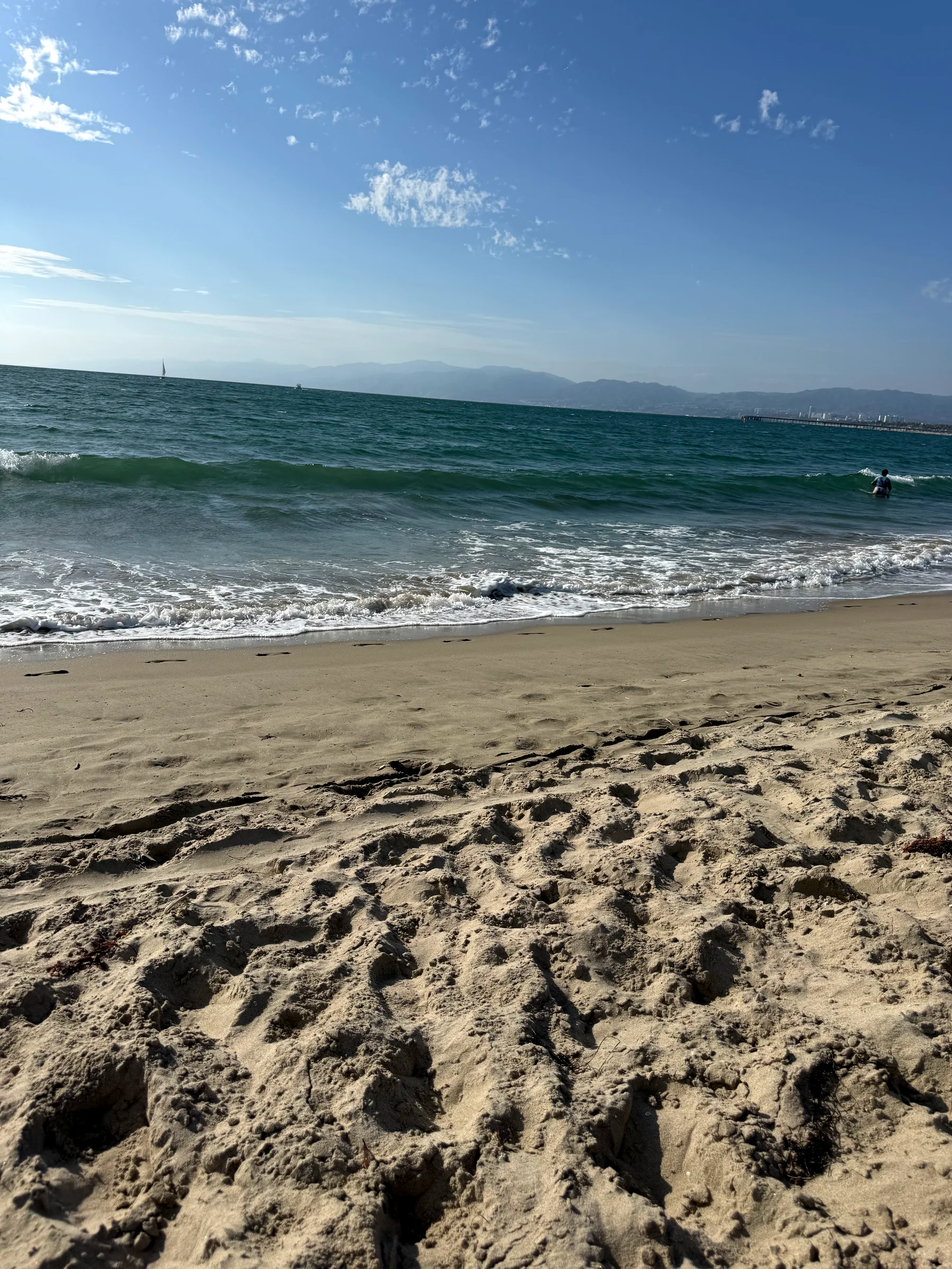
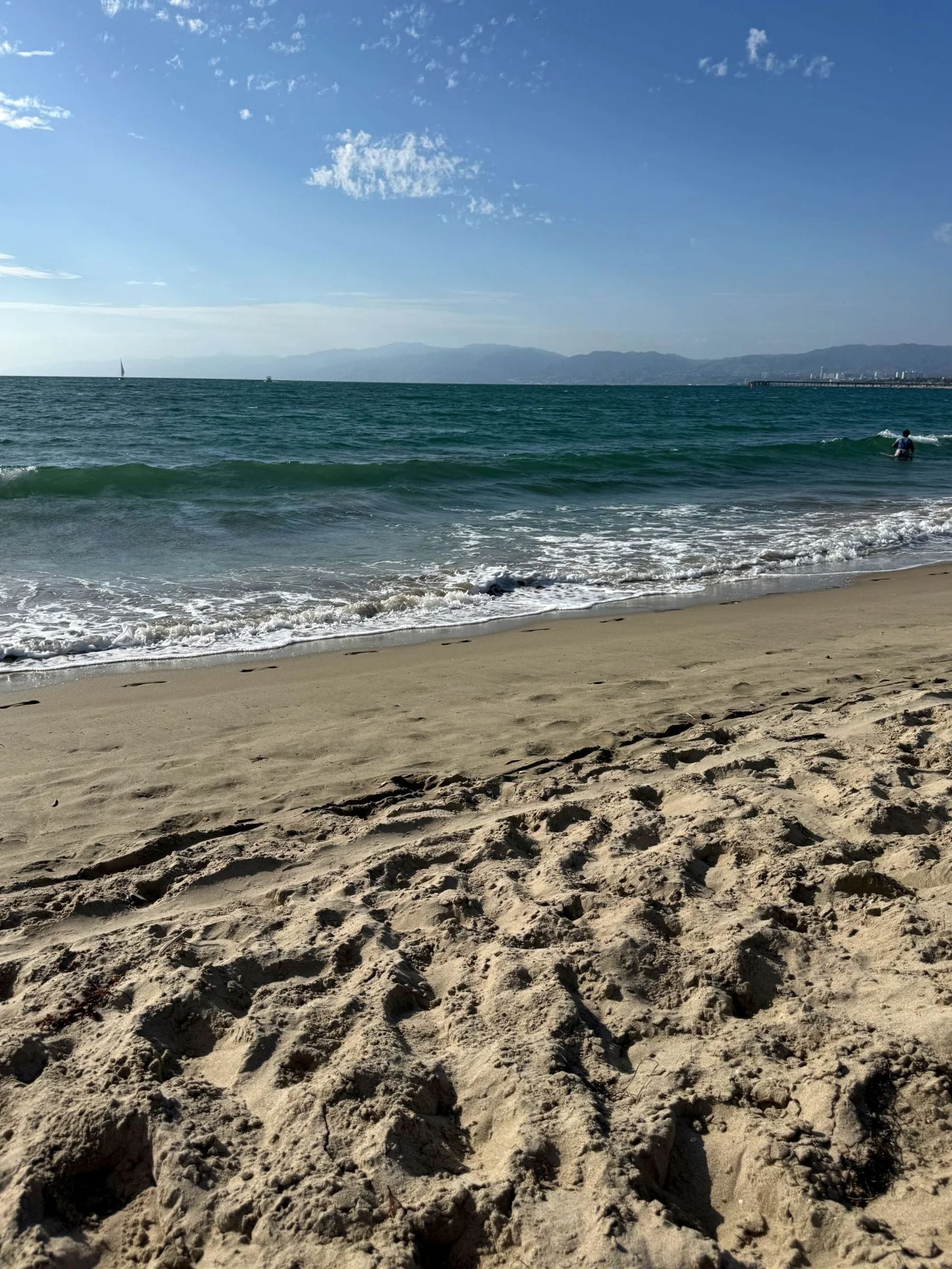
Homepage: graphics over project photos, pink title band

diff --git a/src/lib/overlays.ts b/src/lib/overlays.ts
@@ -1,0 +1,99 @@
+// Homepage featured projects: a photo with graphics drawn over it ("half photo, half drawing").
+// Each overlay is drawn in its photo's own pixels, so it stays lined up with the horizon, the water
+// and so on at any screen size. If a project's photo changes in the editor, its overlay switches off
+// (it would no longer line up) and the plain photo shows instead.
+// Colours come from the built-in drawings (src/lib/scene.ts).
+import { url } from './url';
+
+type Art = {
+  photo: string; // the photo it was drawn for
+  w: number; // photo size in pixels
+  h: number;
+  view: [number, number]; // the band of the photo to centre on (top, height)
+  band?: string; // a colour band across the top, as tall as the title, so the title sits on it
+  defs: string;
+  art: string;
+};
+
+/** Repeats a template n times. */
+const times = (n: number, f: (i: number) => string) => Array.from({ length: n }, (_, i) => f(i)).join('');
+
+const ART: Record<string, Art> = {
+  // Solstice: a sunset drawn onto the real horizon (y 708; the photo was levelled by 3.5° to make it flat).
+  solstice: {
+    photo: '/images/gallery/2026-11-shoreline.webp',
+    w: 1800,
+    h: 2400,
+    view: [120, 1360],
+    defs: `<radialGradient id="ov-glow"><stop offset="0" stop-color="#fff6ee" stop-opacity=".95"/><stop offset=".3" stop-color="#f6c9cf" stop-opacity=".6"/><stop offset="1" stop-color="#f2b8c2" stop-opacity="0"/></radialGradient>
+      <linearGradient id="ov-sky" x1="0" y1="0" x2="0" y2="1"><stop offset="0" stop-color="#8db6d6" stop-opacity=".15"/><stop offset=".55" stop-color="#cdbfd6" stop-opacity=".45"/><stop offset="1" stop-color="#f4d8d6" stop-opacity=".8"/></linearGradient>
+      <clipPath id="ov-above"><rect width="1800" height="708"/></clipPath>`,
+    art: `<g clip-path="url(#ov-above)"><rect width="1800" height="708" fill="url(#ov-sky)"/>
+      <circle cx="900" cy="708" r="560" fill="url(#ov-glow)"/>
+      <circle cx="900" cy="708" r="250" fill="none" stroke="#fff" stroke-opacity=".55" stroke-width="3"/>
+      <circle cx="900" cy="708" r="340" fill="none" stroke="#fff" stroke-opacity=".35" stroke-width="2"/>
+      <circle cx="900" cy="708" r="165" fill="#fff6ee"/></g>
+      <path d="M0 708H1800" stroke="#fff" stroke-opacity=".7" stroke-width="3"/>
+      <g>
+        <ellipse cx="900" cy="763" rx="520" ry="110" fill="url(#ov-glow)" opacity=".55"/>
+        ${times(16, (i) => {
+          const w = 280 - i * 15;
+          return `<rect x="${900 - w / 2}" y="${727 + i * 26}" width="${w}" height="${6 + i * 0.5}" rx="3" fill="#fde9e2" opacity="${(0.9 - i * 0.045).toFixed(2)}"/>`;
+        })}
+        ${times(34, (i) => `<rect x="${(i * 211) % 1800}" y="${738 + ((i * 83) % 330)}" width="${50 + ((i * 37) % 90)}" height="3" fill="#eef5fa" opacity=".5"/>`)}
+      </g>`,
+  },
+
+  // Pool Tile: a tile grid, wave lines, a lane rope and a pool ring; the pink coping from the drawing is
+  // the title band (drawn by the page, so it always matches the title's height).
+  'pool-tile': {
+    photo: '/images/gallery/2026-11-pool-water.webp',
+    w: 1800,
+    h: 1000,
+    view: [0, 1000],
+    band: '#f4dfe1',
+    defs: `<pattern id="ov-tile" width="90" height="90" patternUnits="userSpaceOnUse"><path d="M90 0H0V90" fill="none" stroke="#fff" stroke-opacity=".4" stroke-width="2"/></pattern>`,
+    art: `<rect width="1800" height="1000" fill="url(#ov-tile)"/>
+      ${times(7, (i) => `<path d="M0 ${200 + i * 112}${times(12, () => 'q75 -20 150 0')}" fill="none" stroke="#fff" stroke-opacity=".38" stroke-width="4"/>`)}
+      ${times(50, (i) => `<circle cx="${18 + i * 36}" cy="720" r="11" fill="${i % 2 ? '#fff' : '#f2b8c2'}" opacity=".9"/>`)}
+      <ellipse cx="1020" cy="560" rx="150" ry="40" fill="#36506d" opacity=".18"/>
+      <circle cx="1000" cy="510" r="92" fill="none" stroke="#f2b8c2" stroke-width="58"/>
+      <circle cx="1000" cy="510" r="92" fill="none" stroke="#fff" stroke-width="58" stroke-dasharray="72.3 72.3"/>
+      <circle cx="1000" cy="510" r="121" fill="none" stroke="#fff" stroke-opacity=".7" stroke-width="2"/>`,
+  },
+
+  // Window Light: the plane-window view framed by a drawn cabin window (bezel, shade half up, a slant of
+  // light), with the rest of the photo softly tinted so the white title stays readable.
+  'window-light': {
+    photo: '/images/gallery/2026-11-window-seat.webp',
+    w: 1800,
+    h: 2400,
+    view: [420, 1360],
+    defs: `<clipPath id="ov-pane"><rect x="540" y="560" width="720" height="1060" rx="300"/></clipPath>
+      <linearGradient id="ov-tint" x1="0" y1="0" x2="0" y2="1"><stop offset="0" stop-color="#e6c7cf" stop-opacity=".2"/><stop offset="1" stop-color="#f3e6dc" stop-opacity=".45"/></linearGradient>`,
+    art: `<g transform="translate(900 1090) scale(.78) translate(-900 -1090)"><path fill-rule="evenodd" fill="url(#ov-tint)" d="M-1200 -1200H3000V3600H-1200Z M840 560H960A300 300 0 0 1 1260 860V1320A300 300 0 0 1 960 1620H840A300 300 0 0 1 540 1320V860A300 300 0 0 1 840 560Z"/>
+      <path fill-rule="evenodd" fill="#efe3da" opacity=".95" d="M840 420H960A440 440 0 0 1 1400 860V1320A440 440 0 0 1 960 1760H840A440 440 0 0 1 400 1320V860A440 440 0 0 1 840 420Z M840 560H960A300 300 0 0 1 1260 860V1320A300 300 0 0 1 960 1620H840A300 300 0 0 1 540 1320V860A300 300 0 0 1 840 560Z"/>
+      <rect x="400" y="420" width="1000" height="1340" rx="440" fill="none" stroke="#fff" stroke-opacity=".7" stroke-width="5"/>
+      <g clip-path="url(#ov-pane)"><rect x="540" y="560" width="720" height="250" fill="#f6efe9"/><rect x="540" y="804" width="720" height="10" fill="#e3d4c9"/><rect x="860" y="814" width="80" height="22" rx="11" fill="#d8c8bd"/>
+        <polygon points="600,830 820,830 640,1620 540,1620" fill="#fff" opacity=".16"/></g>
+      <rect x="540" y="560" width="720" height="1060" rx="300" fill="none" stroke="#fff" stroke-width="22"/>
+      <polygon points="1260,980 1800,1500 1800,2400 1260,1560" fill="#fff" opacity=".09"/></g>`,
+  },
+};
+
+/** The colour of the title band for this project's photo, if it has one. */
+export function photoBand(id: string, photo: string | undefined): string | null {
+  const a = ART[id];
+  return a?.band && photo?.trim() === a.photo ? a.band : null;
+}
+
+/**
+ * The project's photo with its graphics, as an SVG (fills its box like a cover photo), or null when
+ * there's no overlay for it.
+ */
+export function photoArt(id: string, photo: string | undefined): string | null {
+  const a = ART[id];
+  if (!a || photo?.trim() !== a.photo) return null;
+  const [top, height] = a.view;
+  return `<svg viewBox="0 ${top} ${a.w} ${height}" preserveAspectRatio="xMidYMid slice" aria-hidden="true"><defs>${a.defs}</defs><image href="${url(a.photo.replace(/^\//, ''))}" width="${a.w}" height="${a.h}"/>${a.art}</svg>`;
+}

diff --git a/src/styles/global.css b/src/styles/global.css
@@ -82,10 +82,8 @@ header .right{text-decoration:none;min-height:44px;display:inline-flex;align-ite
 .feat .meta{position:absolute;right:max(2.2vw,16px);bottom:30px;color:#fff;text-align:right}
 .feat .fslide{position:absolute;inset:0;transition:opacity .9s ease}
 .feat .fslide[data-off]{opacity:0}
-/* Half drawing, half photo: two panels with a thin sand seam; stacked on phones. */
-.duo{position:absolute;inset:0;display:grid;grid-template-columns:1fr 1fr;gap:6px;background:var(--bg)}
-.duo>.fill{position:relative;overflow:hidden}
-@media(max-width:640px){.duo{grid-template-columns:none;grid-template-rows:1fr 1fr}}
+/* A colour band behind the title (as tall as the title; set by the slider script), with a thin coping line. */
+.feat-band{position:absolute;left:0;right:0;top:0;height:calc(var(--title-h,1em) + .6vw);background:var(--band);opacity:.94;border-bottom:clamp(4px,.5vw,8px) solid #e6c9cd}
 @media(prefers-reduced-motion:reduce){.feat .fslide{transition:none}}
 /* page heads */
 .phead{padding-top:120px;padding-bottom:28px;border-bottom:1px solid var(--rule)}

diff --git a/CLAUDE.md b/CLAUDE.md
@@ -52,7 +52,7 @@ Personal portfolio site, "a little hub for my projects and the things I'm buildi
 - Pictures show at 80% opacity over the sand ("dreamy"); the hero video at 92%.
 - Hero: the video plays **once** (no loop) and rests on its last frame. A round outlined play/pause **icon** button (no words) sits under the tagline on the video; it must not be in the top bar. "LONGEST JUNE" across the bottom, sized by JS to fit the width. Keep it high enough that the J's tail isn't clipped. Respect autoplay blocking (play on first pointerdown).
 - Top bar: Menu at top-left, GitHub + Contact at top-right, fixed while scrolling. Clear with white text over the hero, then a sand bar with blur once past it.
-- Homepage featured projects: when a project has both a drawing (`picture`) and a `photo`, its slide is a diptych, half the drawing and half the photo with a thin sand seam (`.duo`; stacked on phones). Owner's idea, Nov 19 2026. Solstice, Window Light and Pool Tile use the owner's own photos for now (Pool Tile: `pool-water.webp`, cropped to the water). The owner's 8 photos (Nov 19 2026) are lightly enhanced, mixed in among the Gallery's drawings, and the Gallery copies have a white print border (`-print` copies for the two also on the homepage). Uploaded photos in the Gallery grid show whole at their own shape (`.card.photo .ph:has(>img)`), so borders aren't cropped, with gentle offsets (`.scatter`: middle column lower, some pictures slightly narrower and leaning; quieter than an album's photo book). The two swimmers were removed from the pool photo at the owner's request.
+- Homepage featured projects: "half photo, half drawing" means graphics drawn over the photo (owner, Nov 19 2026). `src/lib/overlays.ts` holds one SVG overlay per project (Solstice: sunset and reflection on the levelled horizon; Pool Tile: tile grid, wave lines, lane rope, pool ring, plus a pink title band (`band`, drawn by the page as `.feat-band`, as tall as the fitted title via a ResizeObserver, so the words sit on pink); Window Light: drawn cabin window), drawn in the photo's own pixels so it stays lined up. An overlay switches off if that project's photo changes, and the plain photo shows. The homepage Solstice photo was levelled by 3.5°. Solstice, Window Light and Pool Tile use the owner's own photos for now (Pool Tile: `pool-water.webp`, cropped to the water). The owner's 8 photos (Nov 19 2026) are lightly enhanced, mixed in among the Gallery's drawings, and the Gallery copies have a white print border (`-print` copies for the two also on the homepage). Uploaded photos in the Gallery grid show whole at their own shape (`.card.photo .ph:has(>img)`), so borders aren't cropped, with gentle offsets (`.scatter`: middle column lower, some pictures slightly narrower and leaning; quieter than an album's photo book). The two swimmers were removed from the pool photo at the owner's request.
 - Home order: hero → Hello ("Named after the longest day of the year, when the sun sets late and there's always time for one more thing.") → Location (outlined map-pin SVG icon, **not** an emoji) → Explore index → featured project slider → recent notes.
 - Buttons (owner's choice, Nov 18 2026): the one main action is a solid dark pill; secondary actions are plain underlined text; icon-only controls are round outlined buttons. Applies to the site (`.btn`) and the editor (`.ed-btn.solid` vs `.ed-btn`).
 - Layout: never put a two-column list inside the right half of a two-column row (it leaves a big empty left half). Use `.facts`: the section label on top, then rows where each row's own label sits in the left column and its text in the wide right column (About, Resume, homepage Recent notes).
